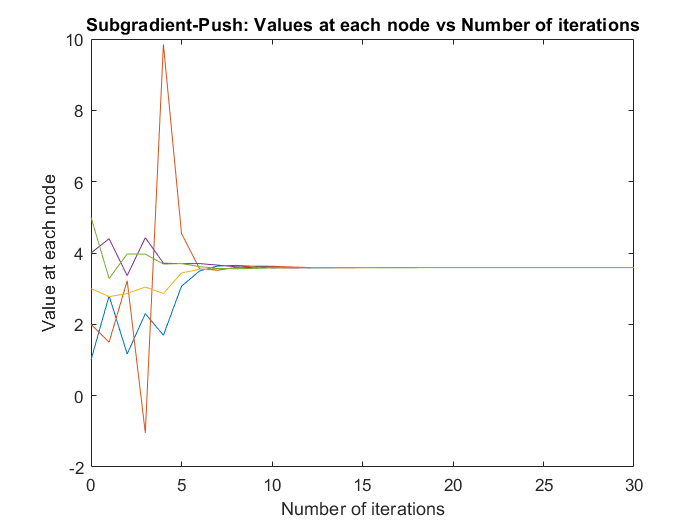
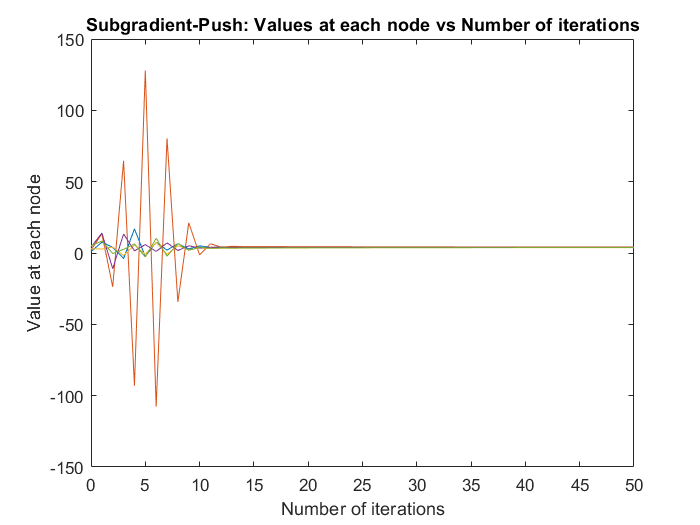
Implemnted gradient-descent using Symbolic Toolbox
* Updated the code for generic implementation of gradient for any function.
* Subgradient-push result graphs updated

To-Do-next: Add adaptive-step-size to achieve local minima faster.

diff --git a/Sync_networks/sync_networks.m b/Sync_networks/sync_networks.m
@@ -6,7 +6,8 @@
 % matrices and synchronous updates
 %% START
 
-%clc; clear; close;
+clc; clear; close;
+% column-stochastic weight matrix
 B = [1/3  0   0  1/2  0;
      1/3 1/3  0   0   0;
      1/3 1/3 1/2  0  1/3;
@@ -14,9 +15,14 @@ B = [1/3  0   0  1/2  0;
       0  1/3 1/2  0  1/3];
   
 x = [1 2 3 4 5]';  %initial node values
-x0 = x;
-z = x;
+alpha = [2 2 2 2 2]'; 
+a = [5 5 1 5 4]'; %demand in node
 v = ones(5,1);
+
+% private cost function
+syms y beta rho
+f(y,beta,rho) = 1/2*beta*(y-rho)^2;
+df = compute_gradient(f,y);
 
 key = '1 Pushsum |2 Subgradient-push |3 ADD-OPT/Push-DIGing |4 AB Algortihm';
 algorithm = input(key);
@@ -39,17 +45,20 @@ if (algorithm == 1)
 end
 %% Subgradient-Push
 if (algorithm == 2)
-   SGDpush_z = [0 x0'];
-   itr = 30; alpha = 1;
+   z = [3 1 1 1 1]';
+   SGDpush_z = [0 x'];
+   itr = 50; step = 1;
    for k = 1:itr
+       dfz = double(subs(df, {y,beta,rho}, {z,alpha,a}));
        v = B*v;
-       x = B*x - alpha*(z-x0);
+       x = B*x - step*dfz;
        z = x./v;
+       step = 1/k;
        % update alpha by backtrace line search
-       Xk = x-x0;
-       dk = -Xk;
-       F = @(x)0.5*(x-x0)'*(x-x0);
-       alpha = backtrack(alpha,Xk,dk,F); 
+       %Xk = x-x0;
+       %dk = -Xk;
+       %F = @(x)0.5*(x-x0)'*(x-x0);
+       %alpha = backtrack(alpha,Xk,dk,F); 
        SGDpush_z=[SGDpush_z; k z'];
    end
    figure(2);
@@ -60,23 +69,23 @@ if (algorithm == 2)
 end
 
 %% ADD_OPT/Push-DIGing
-if (algorithm == 3)
-    ADDOPT_z = [0 x0'];
-    itr = 30; alpha = 1e-4;
-    temp = zeros(length(B),itr);
-    temp(:,1) = z;
-    y = x0 - x0;
-    for k=1:itr
-        v = B*v;
-        x = B*x - alpha*y;
-        z = x./v;
-        temp(:,k+1) = z; 
-        ADDOPT_z=[ADDOPT_z; k z'];
-        y = B*y + (z-x0) - (temp(:,k)-x0);
-    end
-   figure(3);
-   plot(0:itr,ADDOPT_z(:,2:length(B)+1));
-   title('ADD_OPT/Push-DIGing: Values at each node vs Number of iterations');
-   xlabel('Number of iterations');
-   ylabel('Value at each node');
-end
+% if (algorithm == 3)
+%     ADDOPT_z = [0 x0'];
+%     itr = 30; alpha = 1e-4;
+%     temp = zeros(length(B),itr);
+%     temp(:,1) = z;
+%     y = x0 - x0;
+%     for k=1:itr
+%         v = B*v;
+%         x = B*x - alpha*y;
+%         z = x./v;
+%         temp(:,k+1) = z; 
+%         ADDOPT_z=[ADDOPT_z; k z'];
+%         y = B*y + (z-x0) - (temp(:,k)-x0);
+%     end
+%    figure(3);
+%    plot(0:itr,ADDOPT_z(:,2:length(B)+1));
+%    title('ADD-OPT/Push-DIGing: Values at each node vs Number of iterations');
+%    xlabel('Number of iterations');
+%    ylabel('Value at each node');
+% end

diff --git a/Sync_networks/compute_gradient.m b/Sync_networks/compute_gradient.m
@@ -1,0 +1,26 @@
+%% START
+% Compute the gradient of quadratic private cost function 
+% f(y,alpha,rho) = 0.5*alpha(y-rho)^2 and return the result 
+% w.r.t variable 'y'.
+% 
+%
+% INPUT: f = cost function as symbolic function 
+%        y = variable to be considered
+%
+% OUTPUT: df = gradient output
+%
+%% COMPUTE GRADIENT
+function df = compute_gradient(f,y)
+  %so we have an input symbolic function but for some reason
+  %we are not in the context where the variables came from. 
+  %it turns out to be as simple as
+  df = gradient(f,y); 
+  %or for greater certainty you could
+  %g = gradient(f, symvar(f));  %which is what the simple call does
+  %or perhaps you have a reason to do
+  %syms x y z
+  %g = gradient(f(x, y, z), [x y z])
+  %for example it might be a symbolic function in three other
+  %variables that you want to re-label as x, y, z.
+end
+%% END
